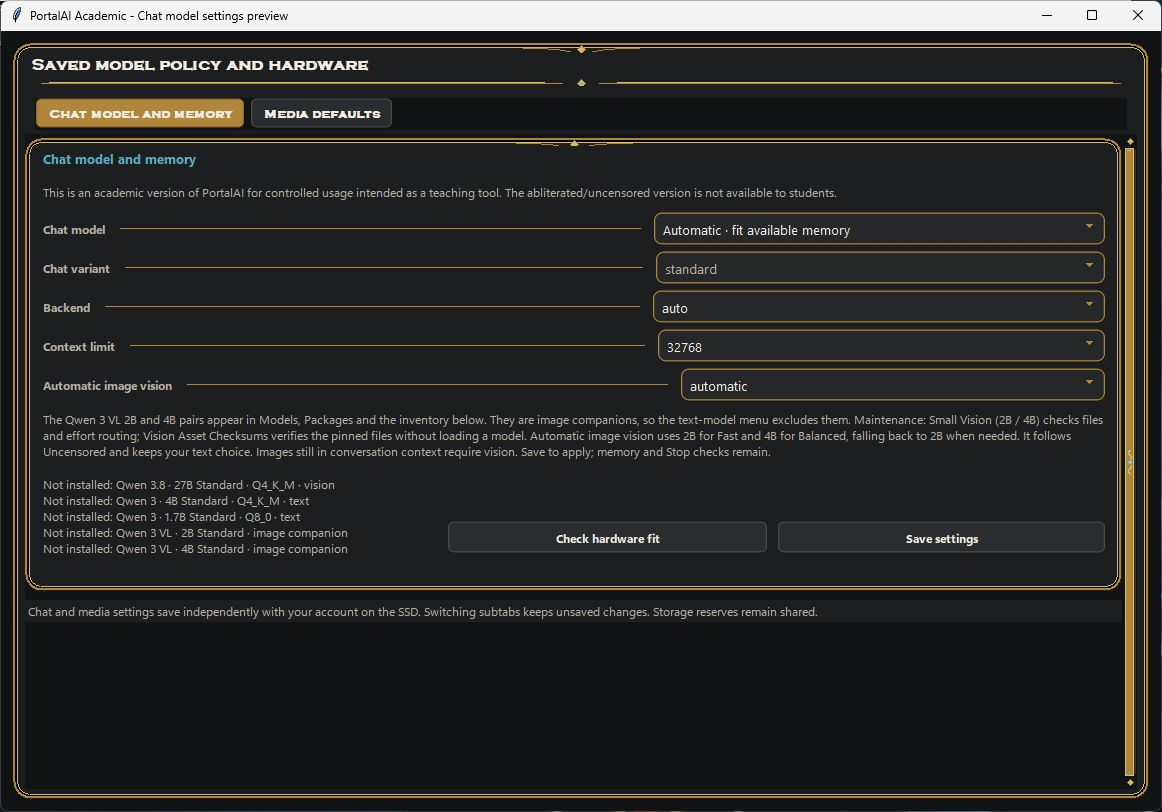
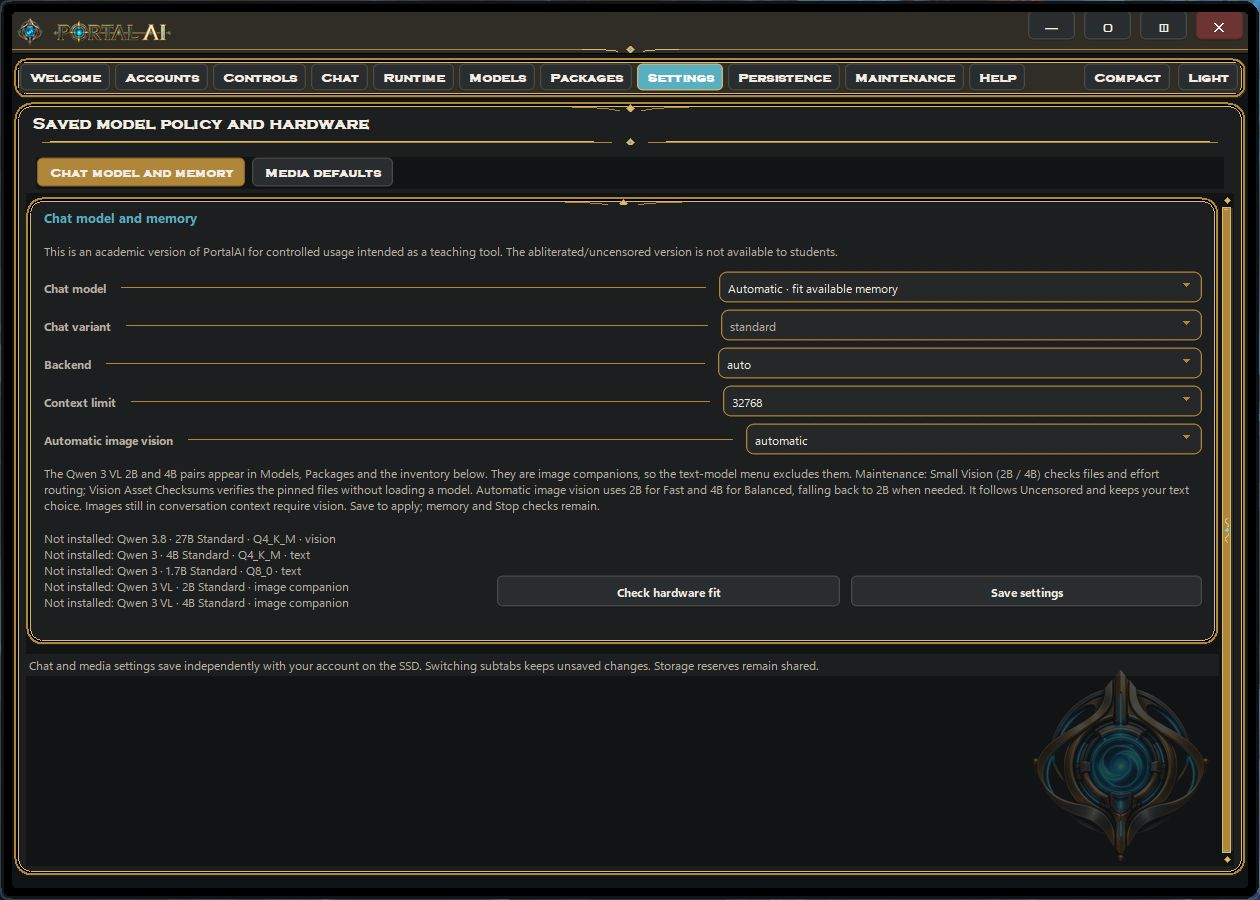
Show complete PortalAI windows and compact chat in README

diff --git a/Documentation/assets/README.md b/Documentation/assets/README.md
@@ -6,10 +6,14 @@ The branding and interface images in this folder come from the existing PortalAI
 | --- | --- |
 | `portalai-logo.png` | Unmodified `Art Assets/Emblems/PortalAI_Emblem_HeroClean_320.png`. |
 | `portalai-wordmark.png` | Unmodified `Art Assets/Wordmarks/PortalAI_Wordmark_Welcome.png`. |
-| `welcome-panel.jpg` | The original `ControlCenter/public_welcome.py` welcome panel, using the application's dark palette and branding. |
-| `chat-model-settings.jpg` | The original Academic `ControlCenter/settings_page.py` chat model and memory panel. |
-| `media-defaults.jpg` | The original Academic `ControlCenter/settings_page.py` media defaults panel. |
+| `welcome-panel.jpg` | The signed-in welcome page constructed by `ControlCenter/PortableAI_GUI.py`, with its original custom title bar, navigation, decorative borders and responsive welcome emblem. |
+| `chat-panel.jpg` | The original `ControlCenter/native_chat.py` Chat panel inside the complete Control Center window, with an illustrative classroom conversation. |
+| `compact-chat-bar.jpg` | The application's compact mode from `ControlCenter/portal_frontend_v15136.py`, opened using the Control Center's Compact button. |
+| `chat-model-settings.jpg` | The original Academic `ControlCenter/settings_page.py` chat model and memory panel inside the complete Control Center window. |
+| `media-defaults.jpg` | The original Academic `ControlCenter/settings_page.py` media defaults panel inside the complete Control Center window. |
 
-The screenshots were captured from isolated preview windows on October 20, 2026. The settings panels use an in-memory sample inventory, with models marked as not installed. No personal profiles, chat history or credentials were loaded, and no model workers or application installation were started. The active PortalAI installation was not modified.
+The screenshots were captured on October 20, 2026 from an isolated copy of the Academic payload. A capture harness runs the original full Control Center UI construction while replacing account access, runtime processes, background jobs and network services with inert preview substitutes. It preserves the application's widget construction, custom title bar, borders, navigation and compact-mode implementation. The welcome capture shows the complete emblem at a window size that accommodates it.
+
+The settings panels use an in-memory sample inventory, with models marked as not installed. The chat text is an illustrative classroom example supplied for the screenshot; it was not generated by a running model. No personal profiles, chat history or credentials were loaded, and no model workers or application installation were started. The active PortalAI installation and the published installer packages were not modified.
 
 These are screenshots of real widgets, not generated interface mockups. The original screenshots and transparent branding images are preserved without visual edits. Platform styling and available components may differ on recipient systems.

diff --git a/README.md b/README.md
@@ -35,12 +35,20 @@ Use the download links above, or the file page's **Download raw file** button. Y
 
 [![PortalAI welcome panel with the original gold wordmark, blue portal emblem and navigation tabs](Documentation/assets/welcome-panel.jpg)](Documentation/assets/welcome-panel.jpg)
 
+**Chat.** The full chat workspace includes conversation history, attachments, effort controls and the original gold window borders.
+
+[![PortalAI Chat in the complete Control Center window, showing an illustrative classroom conversation](Documentation/assets/chat-panel.jpg)](Documentation/assets/chat-panel.jpg)
+
+**Compact chat bar.** Keep the compact controls nearby, then use **View > Full UI** to return to the Control Center.
+
+[![PortalAI compact chat bar with its original branding, border, attachment field and chat controls](Documentation/assets/compact-chat-bar.jpg)](Documentation/assets/compact-chat-bar.jpg)
+
 | Chat model and memory | Media defaults |
 | --- | --- |
-| [![Academic chat settings showing the standard variant, backend, context limit and vision routing](Documentation/assets/chat-model-settings.jpg)](Documentation/assets/chat-model-settings.jpg) | [![Academic media settings for images, speech, transcription, video and music, with standard mode enforced](Documentation/assets/media-defaults.jpg)](Documentation/assets/media-defaults.jpg) |
+| [![Academic chat settings in the complete Control Center window, showing the standard variant, backend, context limit and vision routing](Documentation/assets/chat-model-settings.jpg)](Documentation/assets/chat-model-settings.jpg) | [![Academic media settings in the complete Control Center window, with standard mode enforced](Documentation/assets/media-defaults.jpg)](Documentation/assets/media-defaults.jpg) |
 | Choose model, memory and backend preferences while the Academic variant stays fixed to standard. | Review the defaults for supported media workflows and their hardware requirements. |
 
-<sub>Windows interface previews captured from the Academic build with sample inventory. Available workflows depend on the operating system and installed components. Click a panel to view it at full size.</sub>
+<sub>Windows screenshots of the Academic build's complete Control Center and its compact mode. The chat conversation is illustrative; settings use sample inventory. Available workflows depend on the operating system and installed components. Click a panel to view it at full size. See the <a href="Documentation/assets/README.md">artwork notes</a> for capture details.</sub>
 
 ## Setup
 
